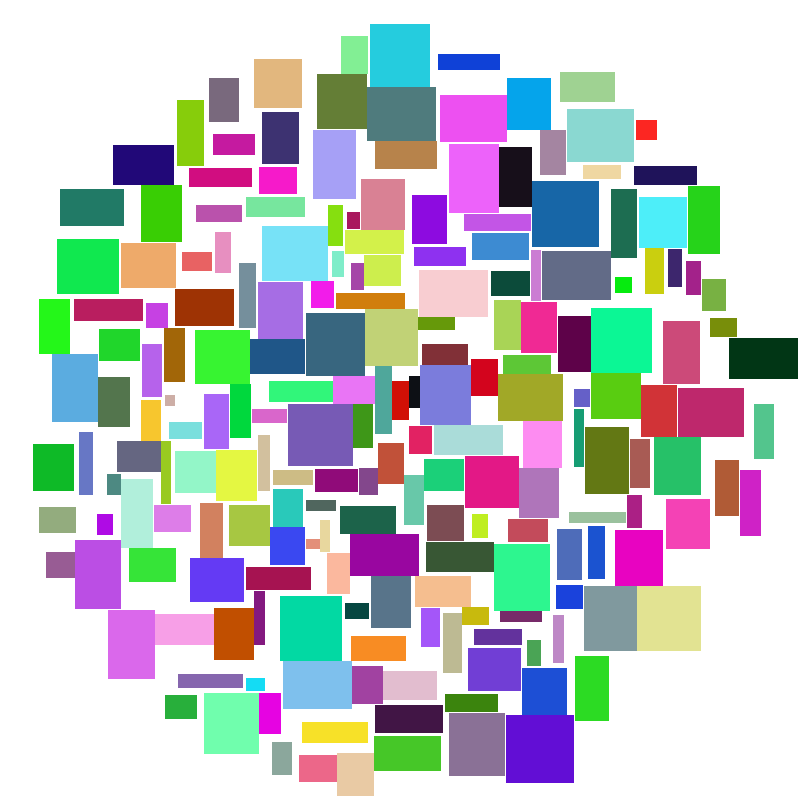
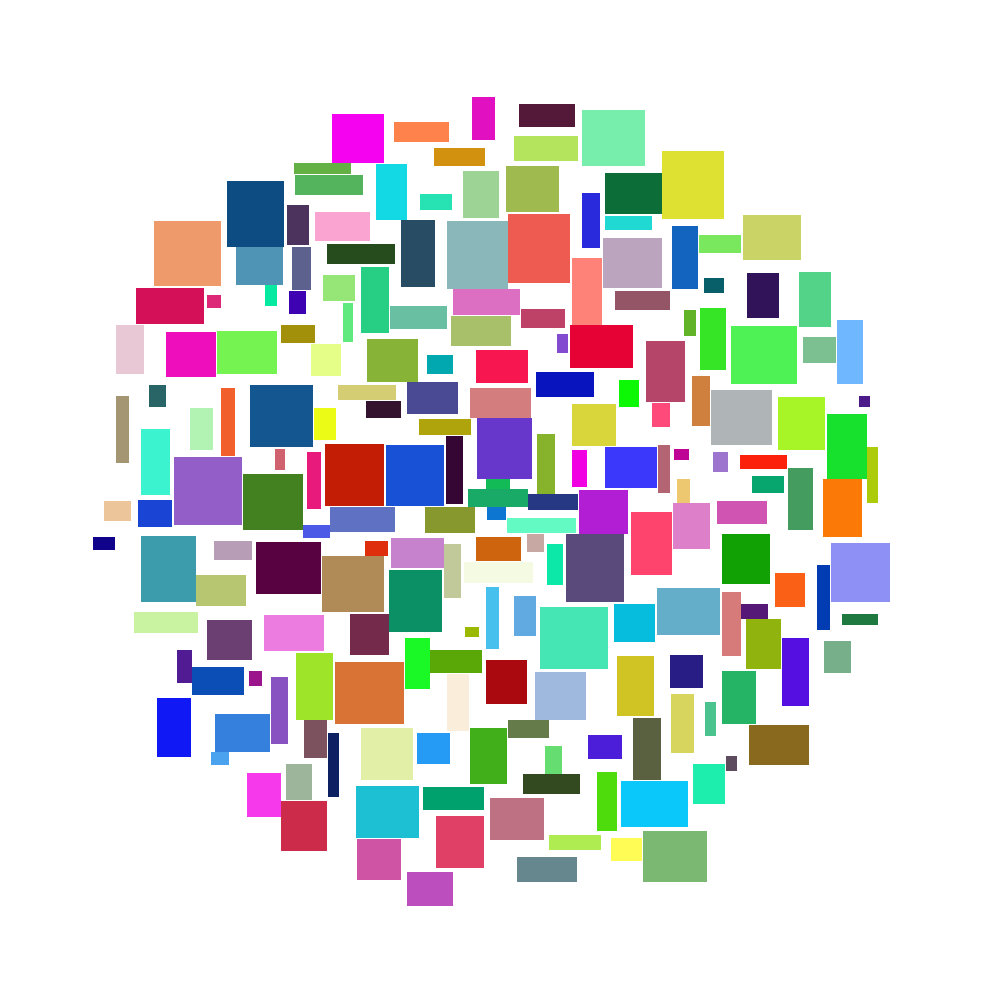
update visualizer

diff --git a/cs/TagsCloudVisualization/Visualiser/CloudVisualiser.cs b/cs/TagsCloudVisualization/Visualiser/CloudVisualiser.cs
@@ -4,11 +4,15 @@ namespace TagsCloudVisualization;
 
 public class CloudVisualiser : ICloudVisualiser
 {
+    private const int IMAGE_MARGIN = 200;
     public CloudVisualiser() { }
 
-    public void VisualiseAndSave(IEnumerable<Rectangle> rectangles, string path, Size bitmapSize)
+    public void VisualiseAndSave(IEnumerable<Rectangle> rectangles, string path)
     {
-        var bitmap = new Bitmap(bitmapSize.Width, bitmapSize.Height);
+        var width = GetWidthOfImage(rectangles);
+        var center = width / 2;
+        rectangles = rectangles.Select(r => new Rectangle(center + r.X, center + r.Y, r.Width, r.Height));
+        var bitmap = new Bitmap(width, width);
         var graphics = Graphics.FromImage(bitmap);
         graphics.Clear(Color.White);
 
@@ -26,5 +30,13 @@ public class CloudVisualiser : ICloudVisualiser
         var random = new Random();
 
         return Color.FromArgb(random.Next(0, 255), random.Next(0,255), random.Next(0,255));
+    }
+
+    private int GetWidthOfImage(IEnumerable<Rectangle> rectangles)
+    {
+        var left = rectangles.Min(r => r.Left);
+        var right = rectangles.Max(r => r.Right);
+
+        return right - left + IMAGE_MARGIN;
     }
 }

diff --git a/cs/TagsCloudVisualization/Program.cs b/cs/TagsCloudVisualization/Program.cs
@@ -6,14 +6,13 @@ public static class Program
     public static void Main()
     {
         var rectanglesCounts = new int[3] { 50, 100, 200 };
-        var imageSize = new Size(800, 800);
         
         foreach (var count in rectanglesCounts)
         {
             var cloud = CloudGenerator
-                .GenerateRandomCloudWithCenter(new(imageSize.Width / 2, imageSize.Height / 2), count);
+                .GenerateRandomCloudWithCenter(new(0, 0), count);
             var visualiser = new CloudVisualiser();
-            visualiser.VisualiseAndSave(cloud.GetRectangles(), GetPathToFile(count), imageSize);
+            visualiser.VisualiseAndSave(cloud.GetRectangles(), GetPathToFile(count));
         }
     }
 

diff --git a/cs/TagsCloudVisualization/CloudLayouter/CircularCloudLayouter.cs b/cs/TagsCloudVisualization/CloudLayouter/CircularCloudLayouter.cs
@@ -13,6 +13,8 @@ public class CircularCloudLayouter : ICloudLayouter
         pointEnumerator = new SpiralPositionGenerator(center).GetPositions().GetEnumerator();
     }
 
+    public List<Rectangle> GetRectangles() => rectangles;
+
     public Rectangle PutNextRectangle(Size rectangleSize)
     {
         if (rectangleSize.Width <= 0 || rectangleSize.Height <= 0)
@@ -40,6 +42,4 @@ public class CircularCloudLayouter : ICloudLayouter
 
     private Point GetPositionFromCenter(Point center, Size size) => 
         new(center.X - size.Width / 2, center.Y - size.Height / 2);
-
-    public List<Rectangle> GetRectangles() => rectangles;
 }

diff --git a/cs/TagsCloudVisualization/Visualiser/ICloudVisualiser.cs b/cs/TagsCloudVisualization/Visualiser/ICloudVisualiser.cs
@@ -4,5 +4,5 @@ namespace TagsCloudVisualization;
 
 public interface ICloudVisualiser
 {
-    public void VisualiseAndSave(IEnumerable<Rectangle> rectangles, string path, Size bitmapSize);
+    public void VisualiseAndSave(IEnumerable<Rectangle> rectangles, string path);
 }
